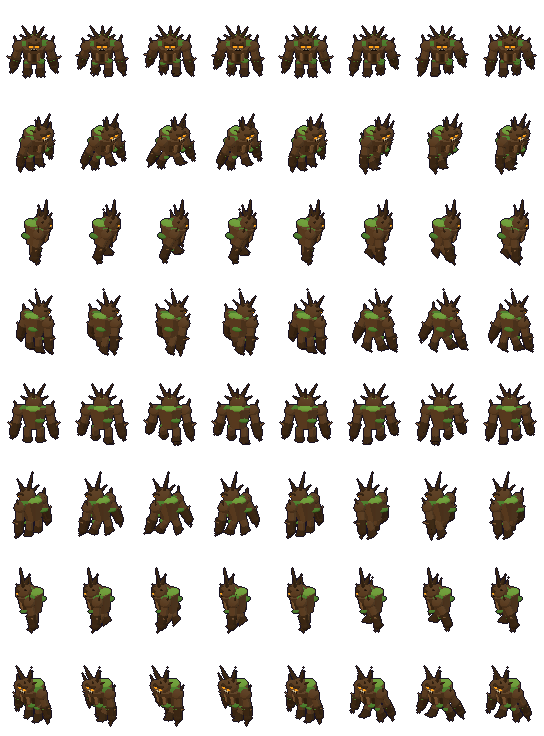
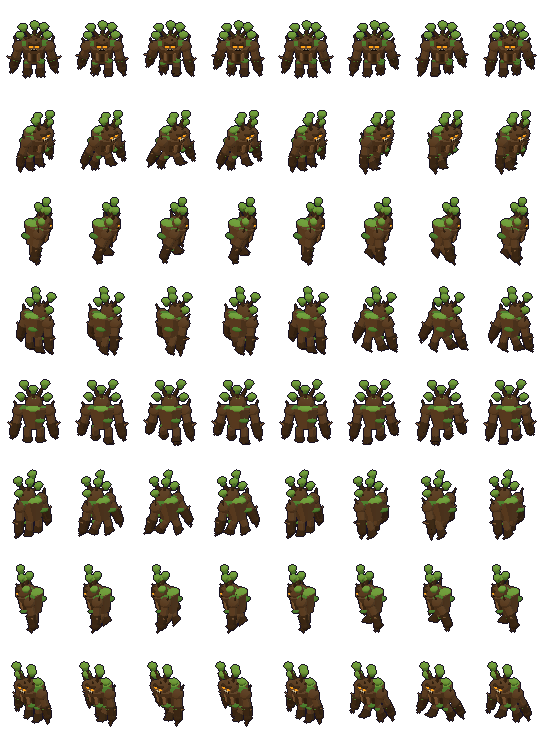
feat: a Swiftbeak that reads head-on and a leafy Bramble Golem
- Swiftbeak: bigger head, a heavy downward-hooked beak, orange eyes set forward and an
  upswept crest like its art, with wing tips flared so the front view isn't a column.
- Bramble Golem: leaf clusters on its antler branches and moss hanging from the jaw,
  so it reads as a walking tree.

diff --git a/src/app/game/battle-map/battlefield-models.ts b/src/app/game/battle-map/battlefield-models.ts
@@ -1407,35 +1407,46 @@ function swiftbeak(root: THREE.Group, p: Palette): void {
   put(body, ball(0.21), blue, [0, 0, 0], undefined, [0.82, 0.78, 1.4]);
   put(body, ball(0.15), pale, [0, -0.07, 0.08], undefined, [0.85, 0.7, 1.3]);
   for (const side of [-1, 1]) {
-    put(body, ball(0.16), dark, [side * 0.13, 0.04, -0.05], undefined, [0.3, 0.6, 1.25]);
+    // Wings folded along the sides, their tips flared out so the runner reads from the front
+    const wing = put(
+      body,
+      ball(0.16),
+      dark,
+      [side * 0.14, 0.04, -0.05],
+      undefined,
+      [0.3, 0.6, 1.25],
+    );
+    wing.rotation.y = side * 0.35;
+    wing.rotation.z = side * -0.3;
     for (let i = 0; i < 3; i++) {
       put(body, block(0.012, 0.012, 0.22 - i * 0.04, 0.004), pale, [
-        side * 0.18,
+        side * 0.19,
         0.07 - i * 0.04,
         -0.06 - i * 0.02,
       ]);
     }
   }
-  // Neck thrust forward like a sprinter, small crested head, hooked grey beak
+  // Neck thrust forward like a sprinter, a big crested head and a heavy hooked grey beak
   aim(body, limb(0.06, 0.16), blue, [0, 0.08, 0.24], [0, 0.8, 0.6], 0.22);
   aim(body, limb(0.05, 0.08), blue, [0, 0.25, 0.37], [0, 0.97, 0.24], 0.1);
   const head = joint(body, 'head', [0, 0.38, 0.41]);
-  put(head, ball(0.085), blue, [0, 0, 0], undefined, [0.85, 0.9, 1.15]);
-  aim(head, spike(0.045, 0.17, 10), beak, [0, -0.01, 0.07], [0, -0.25, 1], 0.17);
-  put(head, ball(0.022), beak, [0, -0.05, 0.22]);
+  put(head, ball(0.11), blue, [0, 0, 0], undefined, [0.9, 0.9, 1.1]);
+  aim(head, spike(0.062, 0.2, 10), beak, [0, -0.02, 0.08], [0, -0.45, 1], 0.2);
+  put(head, ball(0.03), beak, [0, -0.1, 0.25]);
+  // Orange eyes set forward on the head, so they show head-on as well as in profile
   for (const side of [-1, 1]) {
-    put(head, ball(0.02), p.paint(0xffd04a), [side * 0.06, 0.02, 0.04]);
-    put(head, ball(0.009), p.paint(0x1a1424), [side * 0.07, 0.022, 0.048]);
+    put(head, ball(0.028), p.paint(0xffa02a), [side * 0.07, 0.03, 0.06]);
+    put(head, ball(0.012), p.paint(0x1a1424), [side * 0.08, 0.032, 0.08]);
   }
   tufts(
     head,
     pale,
     [
-      { dir: [0, 0.5, -1], length: 0.2, width: 0.02 },
-      { dir: [0.18, 0.75, -1], length: 0.17, width: 0.018 },
-      { dir: [-0.18, 0.75, -1], length: 0.17, width: 0.018 },
+      { dir: [0, 1, -0.55], length: 0.3, width: 0.026 },
+      { dir: [0.2, 1, -0.75], length: 0.24, width: 0.022 },
+      { dir: [-0.2, 1, -0.75], length: 0.24, width: 0.022 },
     ],
-    0.06,
+    0.08,
   );
   // Streaming tail plumes fanned out behind
   const tail = joint(body, 'tail', [0, 0.06, -0.27]);
@@ -1788,6 +1799,19 @@ function brambleGolem(root: THREE.Group, p: Palette): void {
     ],
     0.1,
   );
+  // Leaves sprout at the branch tips and moss hangs from the jaw, so it reads as a walking tree
+  for (const [x, y, z, length] of [
+    [0.5, 1, -0.05, 0.4],
+    [-0.55, 1, 0, 0.42],
+    [0.05, 1, -0.5, 0.32],
+    [1, 0.6, -0.25, 0.26],
+    [-1, 0.55, -0.25, 0.26],
+  ]) {
+    const tip = new THREE.Vector3(x, y, z).normalize().multiplyScalar(0.1 + length * 0.9);
+    put(head, ball(0.075), moss, [tip.x, tip.y, tip.z], undefined, [1.25, 0.85, 1.1]);
+    put(head, ball(0.055), deepMoss, [tip.x * 0.92, tip.y * 0.92 - 0.035, tip.z * 0.92]);
+  }
+  put(head, ball(0.075), deepMoss, [0, -0.13, 0.08], undefined, [1.35, 0.8, 0.7]);
   // Long, heavy arms hanging past the knees, ending in root claws
   for (const side of [-1, 1]) {
     const arm = joint(torso, side < 0 ? 'arm-left' : 'arm-right', [side * 0.31, 0.36, 0.02]);
